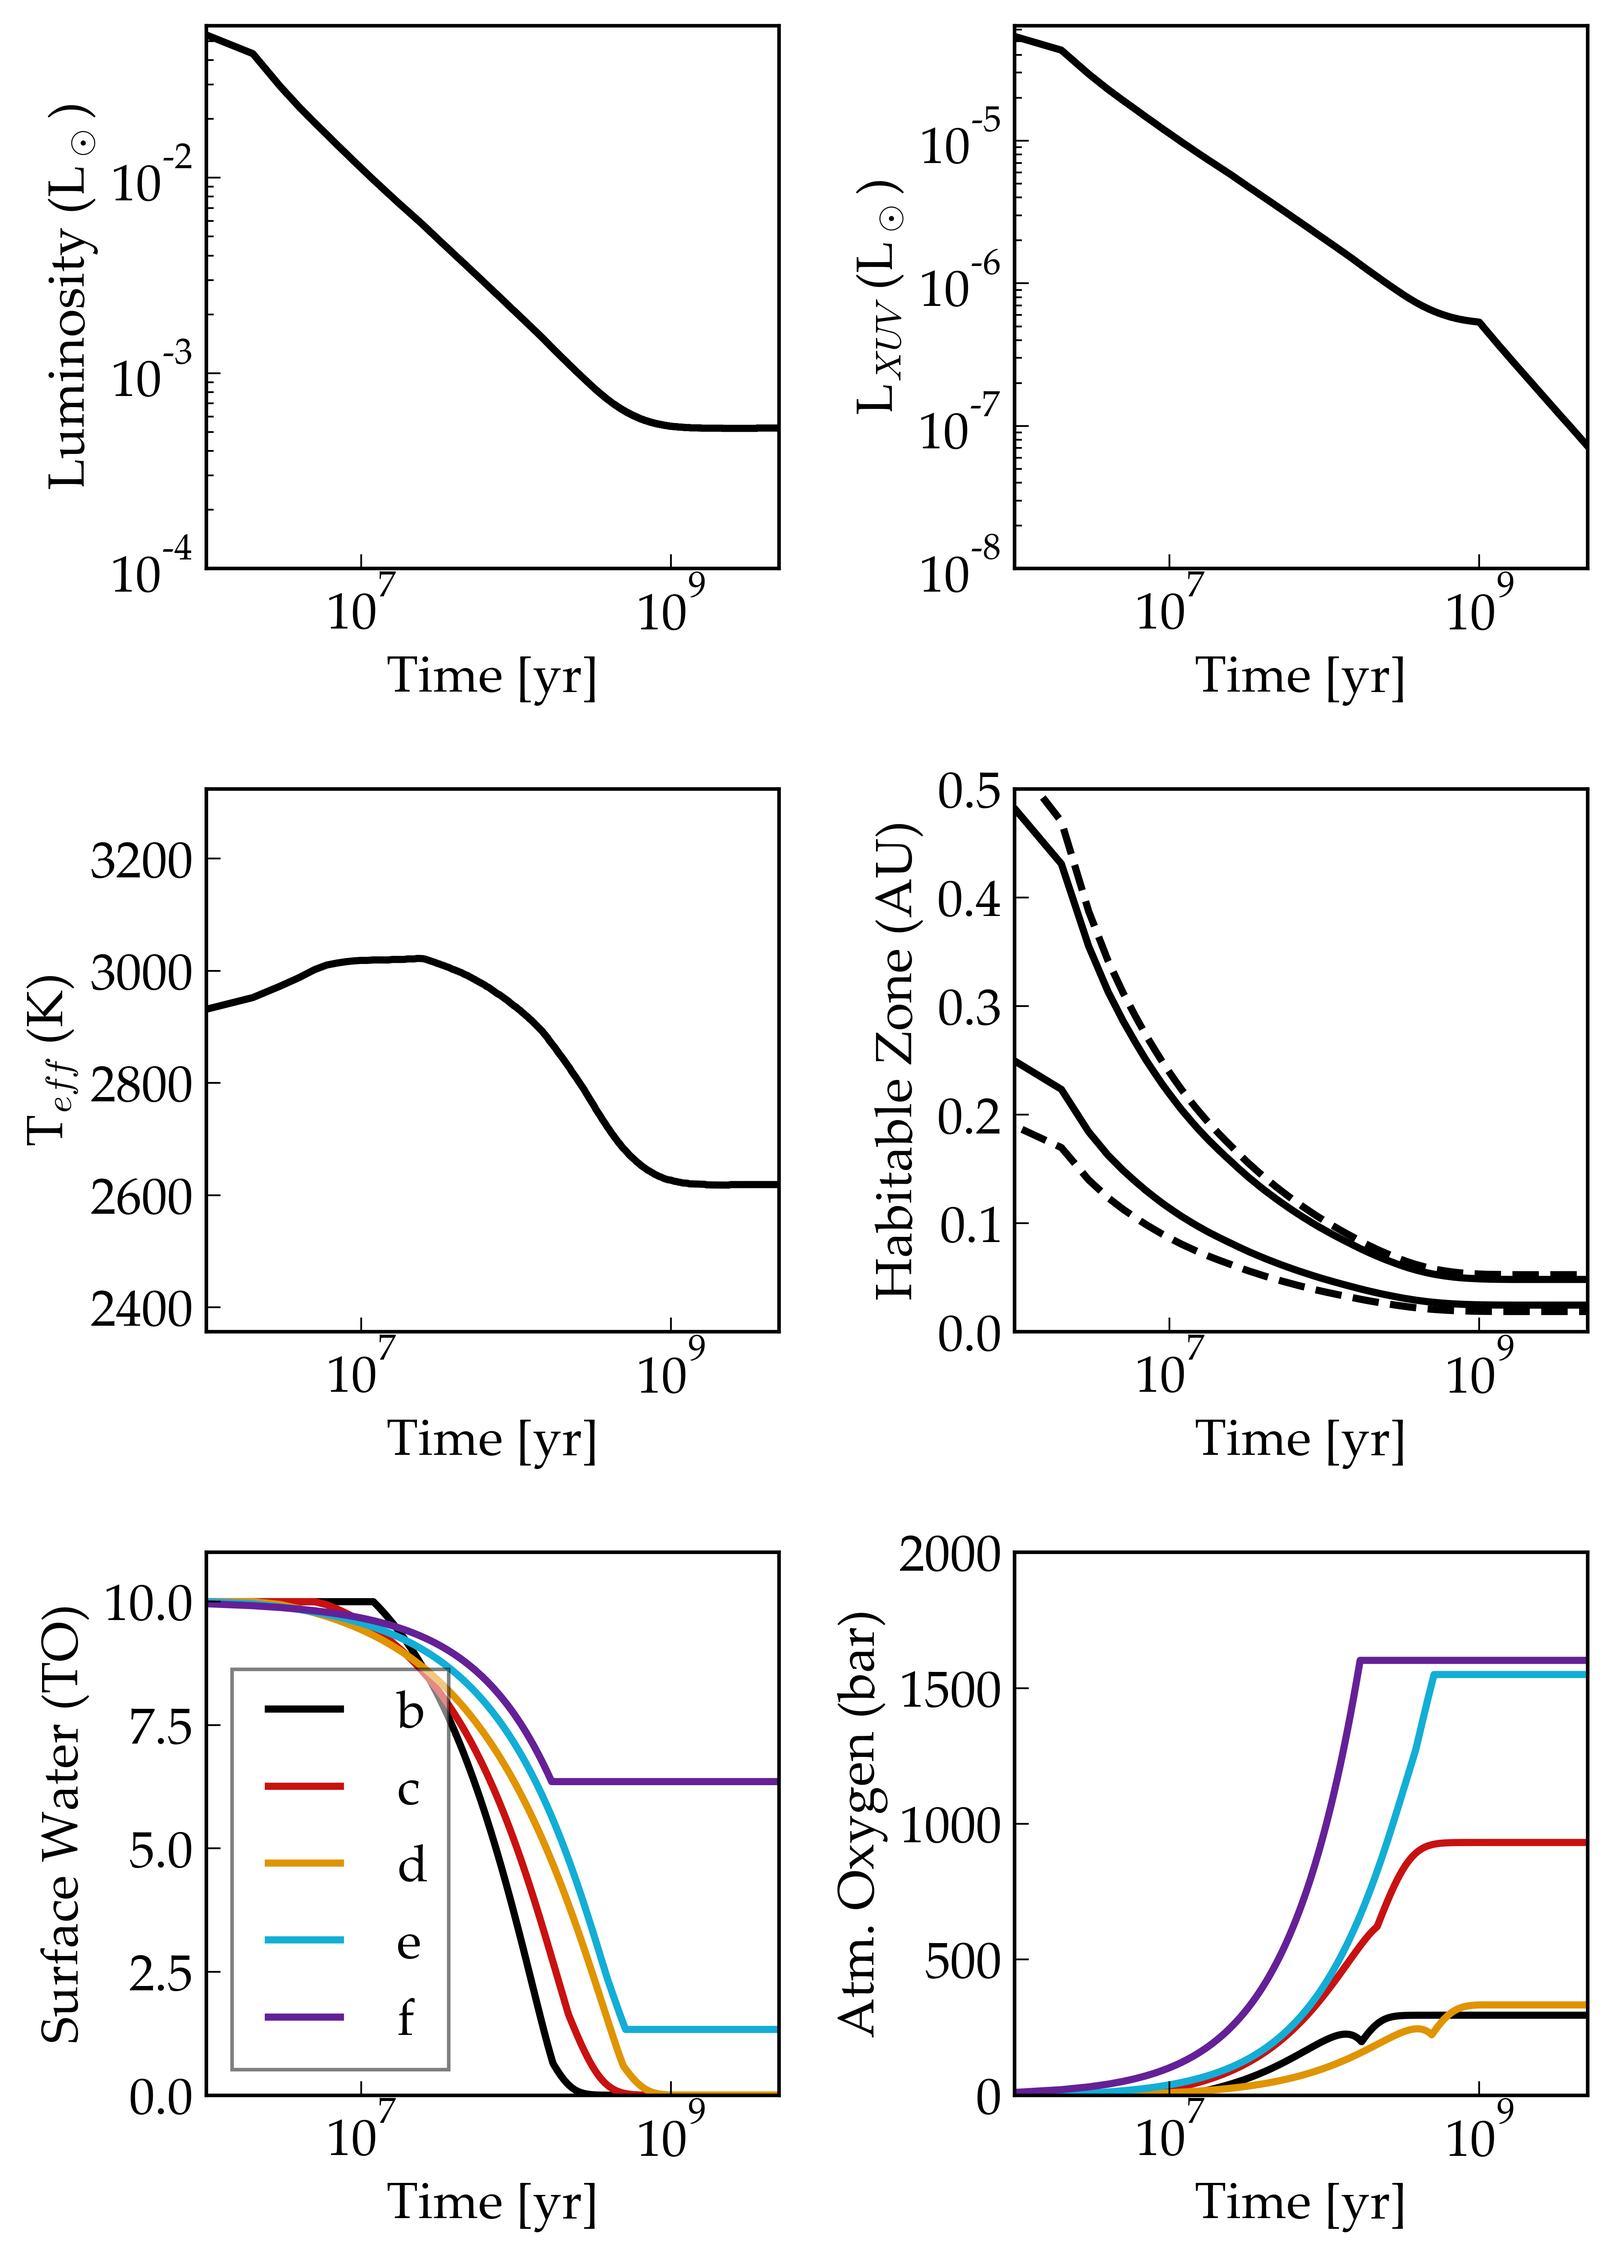
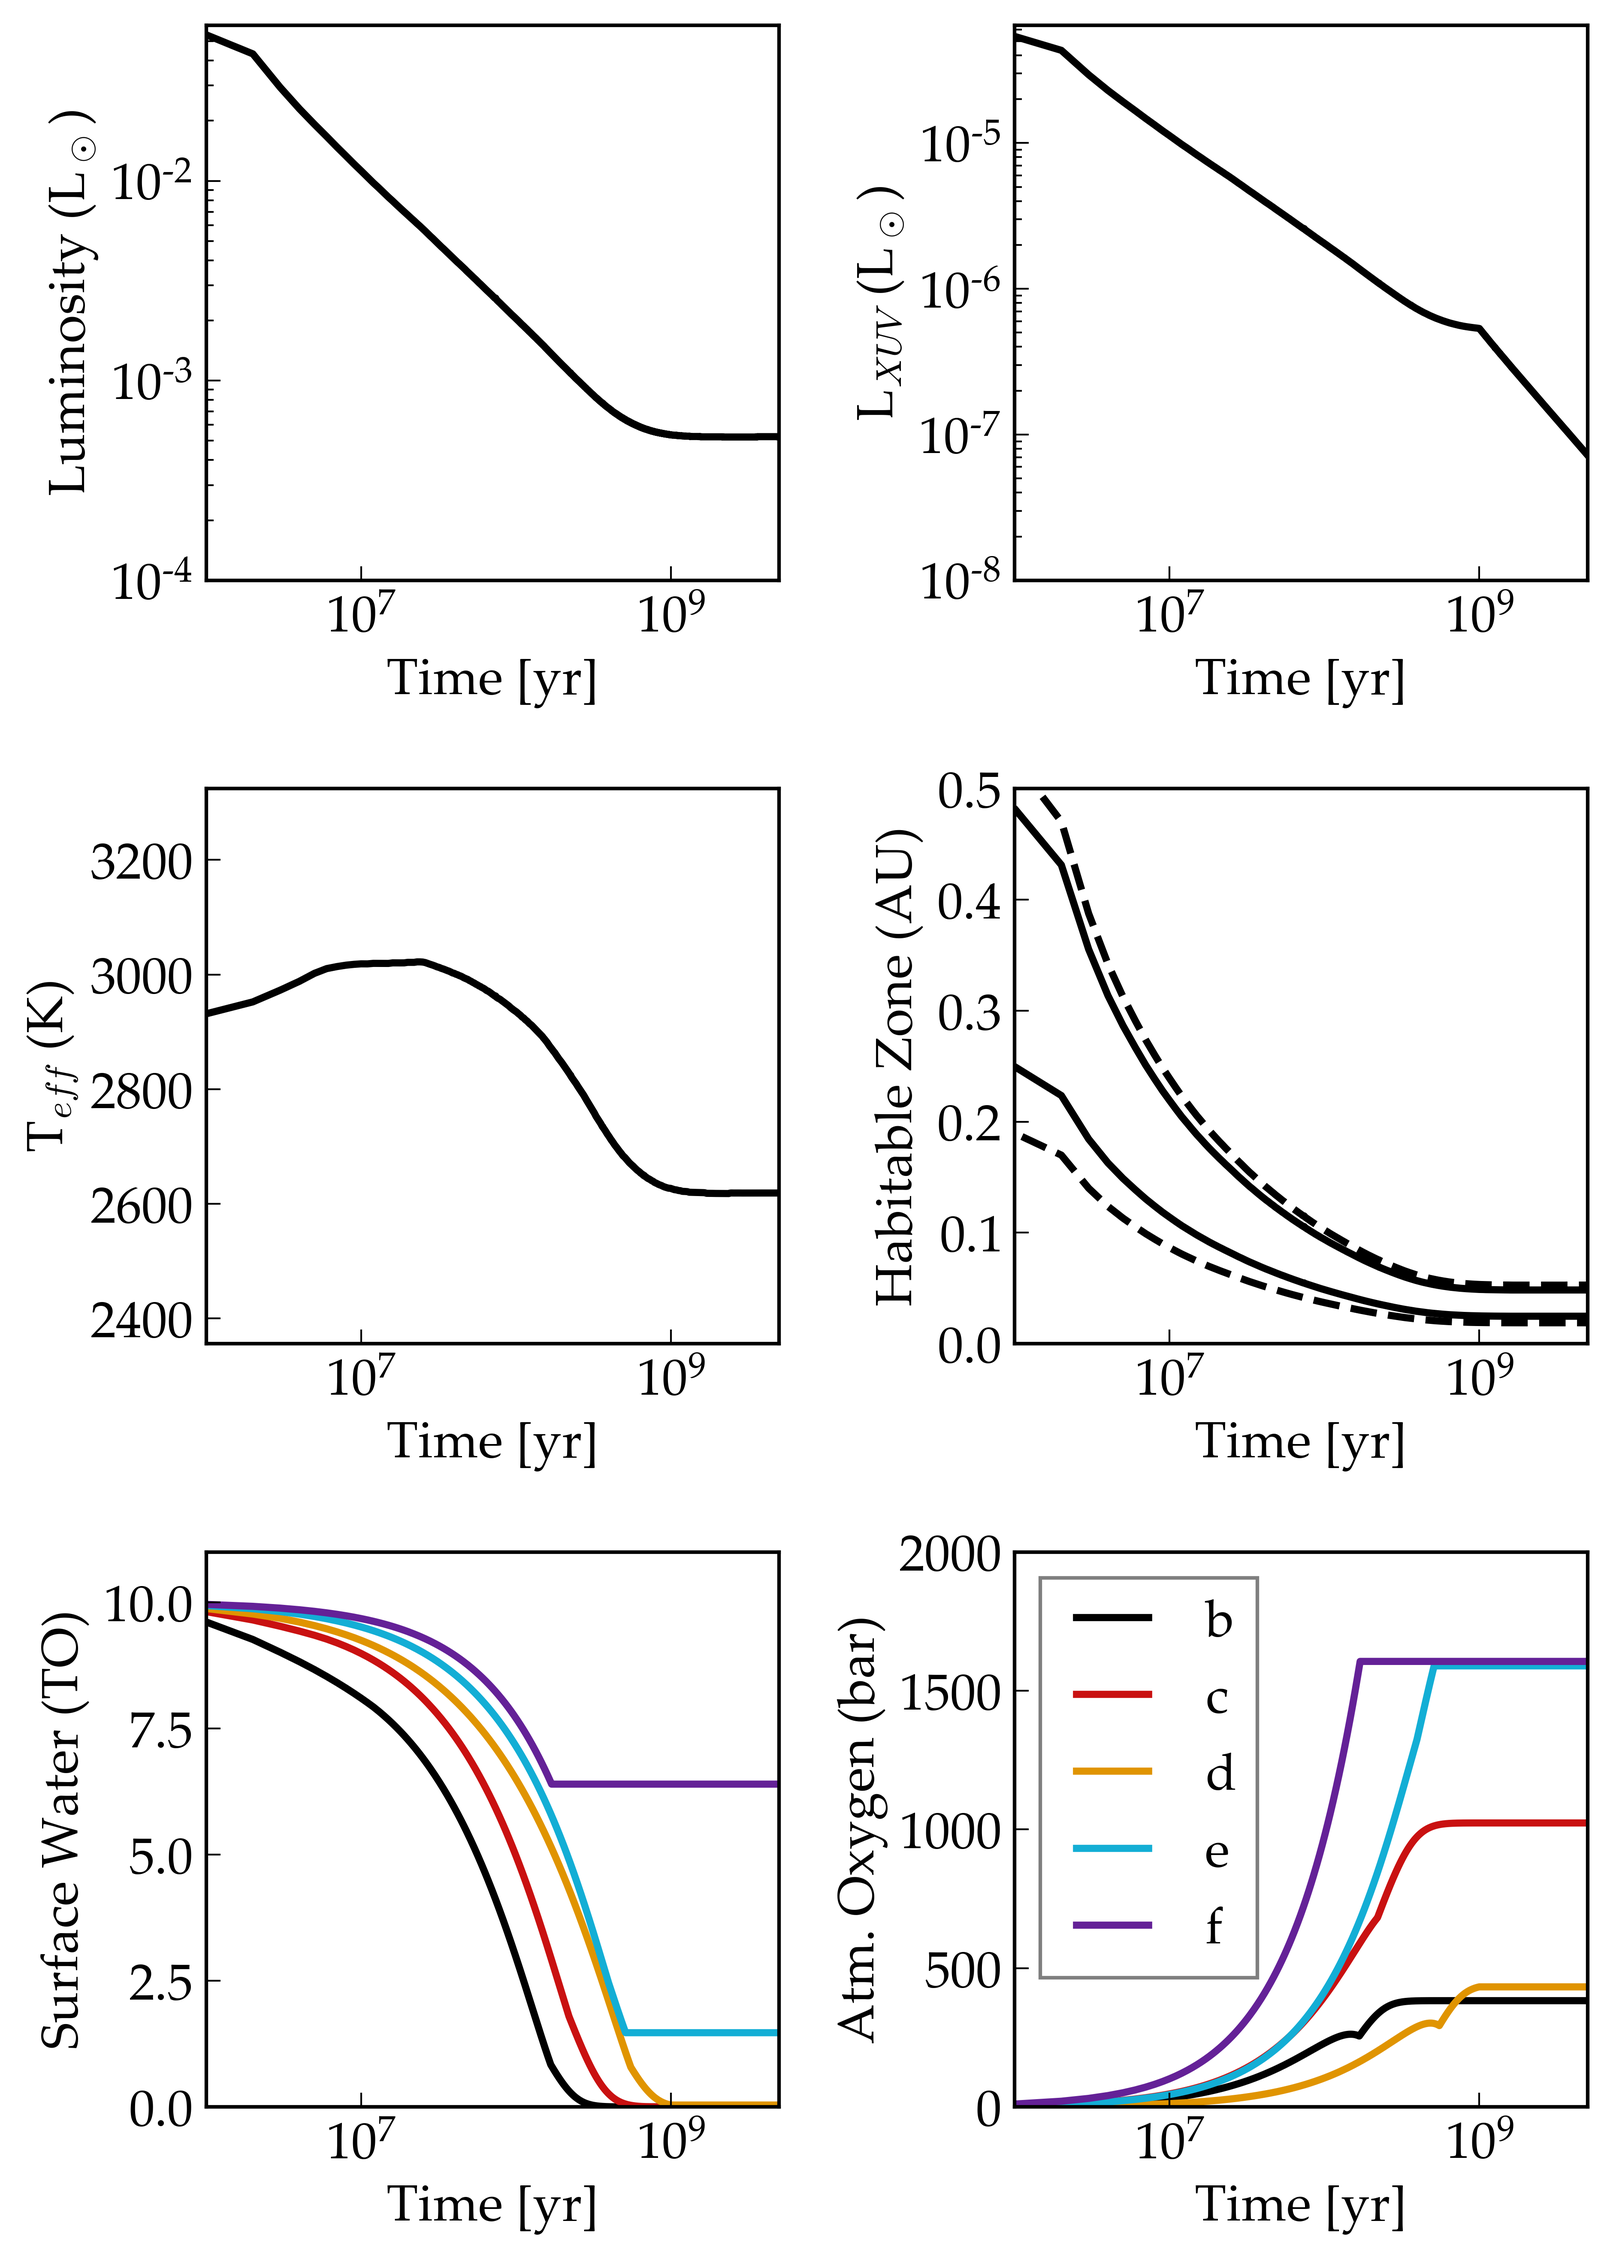
Revised figure to match output from latest VPLanet build. Moved legen to bottom right.

diff --git a/AtmEsc/makeplot.py b/AtmEsc/makeplot.py
@@ -76,11 +76,11 @@ axes[1,1].set_ylabel("Habitable Zone (AU)")
 axes[1,1].set_xscale('log')
 
 ## Bottom Left: Surface water ##
-axes[2,0].plot(time, output.b.SurfWaterMass,'k',label='b')
-axes[2,0].plot(time, output.c.SurfWaterMass,color=vpl.colors.red,label='c')
-axes[2,0].plot(time, output.d.SurfWaterMass,color=vpl.colors.orange,label='d')
-axes[2,0].plot(time, output.e.SurfWaterMass,color=vpl.colors.pale_blue,label='e')
-axes[2,0].plot(time, output.f.SurfWaterMass,color=vpl.colors.purple,label='f')
+axes[2,0].plot(time, output.b.SurfWaterMass,'k')
+axes[2,0].plot(time, output.c.SurfWaterMass,color=vpl.colors.red)
+axes[2,0].plot(time, output.d.SurfWaterMass,color=vpl.colors.orange)
+axes[2,0].plot(time, output.e.SurfWaterMass,color=vpl.colors.pale_blue)
+axes[2,0].plot(time, output.f.SurfWaterMass,color=vpl.colors.purple)
 
 # Format
 axes[2,0].set_xlim(1e6,time.max())
@@ -88,14 +88,14 @@ axes[2,0].set_ylim(0,11)
 axes[2,0].set_xlabel("Time [yr]")
 axes[2,0].set_ylabel("Surface Water (TO)")
 axes[2,0].set_xscale('log')
-axes[2,0].legend(loc='best')
 
 ## Bottom Right: Abiotic Oxygen ##
-axes[2,1].plot(time, output.b.OxygenMass,'k')
-axes[2,1].plot(time, output.c.OxygenMass,color=vpl.colors.red)
-axes[2,1].plot(time, output.d.OxygenMass,color=vpl.colors.orange)
-axes[2,1].plot(time, output.e.OxygenMass,color=vpl.colors.pale_blue)
-axes[2,1].plot(time, output.f.OxygenMass,color=vpl.colors.purple)
+axes[2,1].plot(time, output.b.OxygenMass,'k',label='b')
+axes[2,1].plot(time, output.c.OxygenMass,color=vpl.colors.red,label='c')
+axes[2,1].plot(time, output.d.OxygenMass,color=vpl.colors.orange,label='d')
+axes[2,1].plot(time, output.e.OxygenMass,color=vpl.colors.pale_blue,label='e')
+axes[2,1].plot(time, output.f.OxygenMass,color=vpl.colors.purple,label='f')
+axes[2,1].legend(loc='best')
 
 # Format
 axes[2,1].set_xlim(1e6,time.max())
